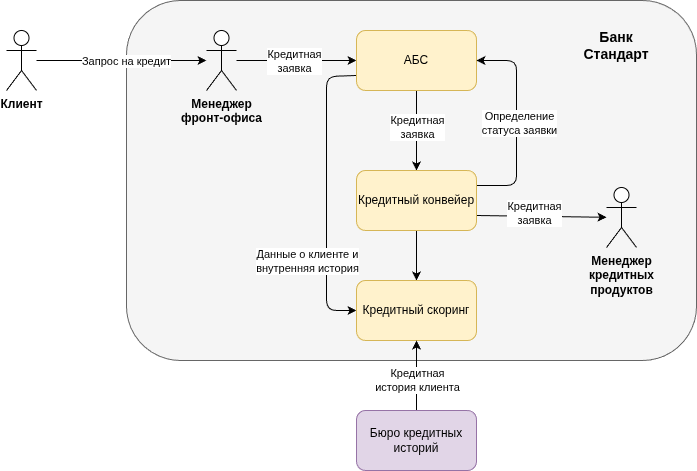
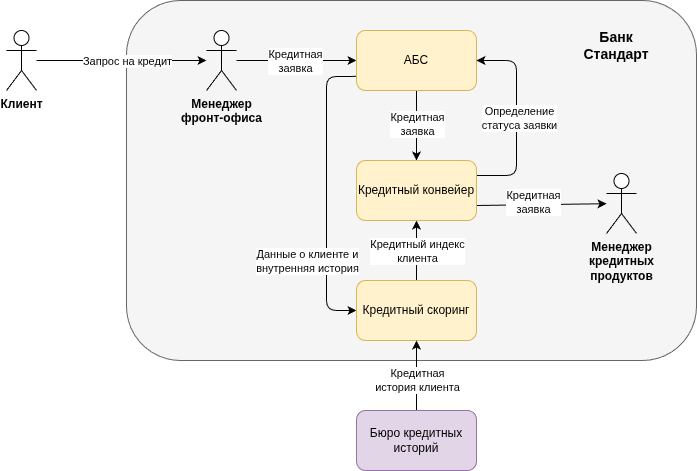
self review fixes

diff --git a/task5_credits/credit_online_adr.md b/task5_credits/credit_online_adr.md
@@ -62,25 +62,21 @@
 
 Диаграмма контейнеров: [puml](credits_online_c4_containers.puml) | [png](credits_online_c4_containers.png)
 
-<details>
-<summary>Комментарии к контенту диаграммы:</summary>
-
-- На диаграмме не обозначена БД сервиса кредитов, подразумевается, что это способ хранения - техническая деталь работы сервиса.
-- Компонент интернет-банка может выглядеть как противоречащий требованиям, для пояснения создана отдельная диаграмма: [puml](online_banking_c4_component.puml) | [png](online_banking_c4_component.png)
-</details>
-</br>
-
 Логика принятия решений:
-- Функционал работы с кредитами планируется добавить и перенести в новый сервис, включая миграцию имеющихся данных.
+- Функционал работы с кредитами планируется добавить и перенести в новый сервис, включая миграцию имеющихся данных из АБС.
 - Есть проблемы с АБС:
     - она сосредоточила в себе много функций, при этом уже есть сложности с производительностью;
     - технологии при помощи которых реализована АБС создают риск потери поддержки;
 - Новый сервис планируется реализовать с использованием знакомых командам технологий: Java/С#, React, MS SQL/Oracle. Вариативность обусловлена неочевидностью исполнителей, которые будут определены в зависимости от уровня нагрузки.
-- Вынос функционала кредитов в отдельный сервис решает все проблемы со скоростью обработки заявок, связанные с суточными периодами синхронизации баз разных систем так как работает за счет прямых вызовов.
+- Вынос функционала кредитов в отдельный сервис решает проблему со скоростью обработки заявок, связанные с суточными периодами синхронизации БД разных систем так как работает за счет прямых вызовов.
 - Информацию о ставках планируется хранить в БД нового сервиса.
+- Новый сервис кредитов работает автоматически в тех случаях, когда вмешательство оператора не требуется (например, если новый клиент прислал паспортные данные), в остальных производится создание заявки на кредит.
 - Вспомогательная информация для расчета ставок получается автоматически из других систем через API-вызовы (это возможно по условиям задачи) и доступна для использования кредитным менеджером.
 - Работу с предодобренными заявками планируется реализовать в новом сервисе кредитов. Это позволяет решить потенциальные проблемы с дублированием предодобренных заявок за счет автоматического сопоставления заявок с имеющимися по идентификаторам клиента.
 - Одинаковость отображаемой информации по ставкам в разных местах обеспечивается единственностью источника - новый сервис кредитов.
+- Продолжим плавно переводить интернет-банк на микросервисную архитектуру используя StranglerFig, подробности на диаграмме: [puml](online_banking_c4_component.puml) | [png](online_banking_c4_component.png).
+- Все новые сервисы должны быть написаны с учетом готовности к масштабированию (stateless, отсутствие привязки к экземпляру и т.д.).
+- Все новые сервисы должны развертываться в платформе оркестрации для оперативного масштабирования и обеспечения требований к надежности.
 
 ### <a name="_bjrr7veeh80c"></a>**Альтернативы**
 Альтернативные варианты предусматривают управление нагрузкой на разработку и управление рисками.

diff --git a/task3_mvp_adrs/deposit_online_mvp_adr.md b/task3_mvp_adrs/deposit_online_mvp_adr.md
@@ -51,31 +51,24 @@
 | +R8.1 | Сотрудники депозитов и сотрудники кредитов не должны иметь доступа к данным друг друга по требованиям безопасности |
 | +R9.1 | Новые клиенты должны проходить регистрацию только во время визита в банк с документами |
 
-
 ### <a name="_qmphm5d6rvi3"></a>**Решение**
 Диаграмма контекста для MVP онлайн депозитов: [puml](deposit_online_mvp_c4_context.puml) | [png](deposit_online_mvp_c4_context.png).
 
 Диаграмма компонентов для MVP онлайн депозитов: [puml](deposit_online_mvp_c4_containers.puml) | [png](deposit_online_mvp_c4_containers.png).
 
-<details>
-<summary>Комментарии к контенту диаграммы:</summary>
-
-- На диаграмме осознанно не отображен весь процесс получения данных для расчета ставок депозита (взаимодействие с кредитным отделом).
-- На диаграмме не обозначена БД сервиса депозитов, подразумевается, что это способ хранения - техническая деталь работы сервиса.
-- Компонент интернет-банка может выглядеть как противоречащий требованиям, для пояснения создана отдельная диаграмма: [puml](online_banking_c4_component.puml) | [png](online_banking_c4_component.png)
-</details>
-</br>
-
 Логика принятия решений:
-- Функционал работы с депозитами планируется добавить и перенести в новый сервис, включая миграцию имеющихся данных.
+- Функционал работы с депозитами планируется добавить и перенести в новый сервис, включая миграцию имеющихся данных из АБС.
 - Есть проблемы с АБС:
     - она сосредоточила в себе много функций, при этом уже есть сложности с производительностью;
     - технологии при помощи которых реализована АБС создают риск потери поддержки;
 - Новый сервис планируется реализовать с использованием знакомых командам технологий: Java/С#, React, MS SQL/Oracle. Вариативность обусловлена неочевидностью исполнителей, которые будут определены в зависимости от уровня нагрузки.
 - Информацию о ставках планируется хранить в БД нового сервиса.
+- Начинаем плавно переводить интернет-банк на микросервисную архитектуру используя StranglerFig, подробности на диаграмме: [puml](online_banking_c4_component.puml) | [png](online_banking_c4_component.png). Это позволит добавить СМС-подтверждения в интернет-банке без модификации ядра подрядчиком.
 - Вспомогательная информация для расчета ставок по-прежнему может быть получена депозитным менеджером.
 - Данное решение подразумевает высокую нагрузку на команды разработки оправданную не только текущими (MVP), но и годовыми целями.
-- Предложенный вариант реализации создает хороший задел для достижения годовых планов.
+- Предложенный вариант реализации создает хороший задел для реализации годовых планов.
+- Все новые сервисы должны быть написаны с учетом готовности к масштабированию (stateless, отсутствие привязки к экземпляру и т.д.).
+- Все новые сервисы должны развертываться в платформе оркестрации для оперативного масштабирования и обеспечения требований к надежности.
 
 ### <a name="_bjrr7veeh80c"></a>**Альтернативы**
 Альтернативные варианты предусматривают управление нагрузкой на разработку и управление рисками.

diff --git a/task4_additional_requirements/deposit_rates_to_call_centers_adr.md b/task4_additional_requirements/deposit_rates_to_call_centers_adr.md
@@ -30,7 +30,7 @@
 Диаграмма контейнеров: [puml](deposit_rates_to_call_centers_c4_containers.puml) | [png](deposit_rates_to_call_centers_c4_containers.png)
 
 Логика принятия решений:
-- Ставки по депозитам для новых клиентов могут быть получены оператором любого кол-центра через сайт. Решение тривиальное, на схеме не отображено для читаемости.
+- Ставки по депозитам для новых клиентов могут быть получены оператором любого кол-центра через сайт.
 - Ставки по депозитам для существующих клиентов могут быть получены сотрудником кол-центра банка через систему кол-центра. Данный функционал должен быть реализован в системе кол-центра (согласно условию для этого есть возможность) при помощи прямого API-вызова нового сервиса депозитов. Данное решение является продолжением идеи о том, что в MVP онлайн депозитов планируется синхронное общение между сервисами.
 - Ставки по депозитам для существующих клиентов могут быть получены сотрудником партнёрского кол-центра на SFTP-сервере. Скорее всего это будет внешний сервер так как своего у банка сейчас нет, а его развертывание несет риски срыва сроков MVP в случае задержек. Файлы со ставками будут выгружаться на сервер сервисом депозитов при любом изменении. Чтобы этот процесс не стал блокером для обработки запросов на изменение депозитов, планируется использовать асинхронную очередь задач (Spring Batch или Hangfire в зависимости от языка реализации сервиса).
 
